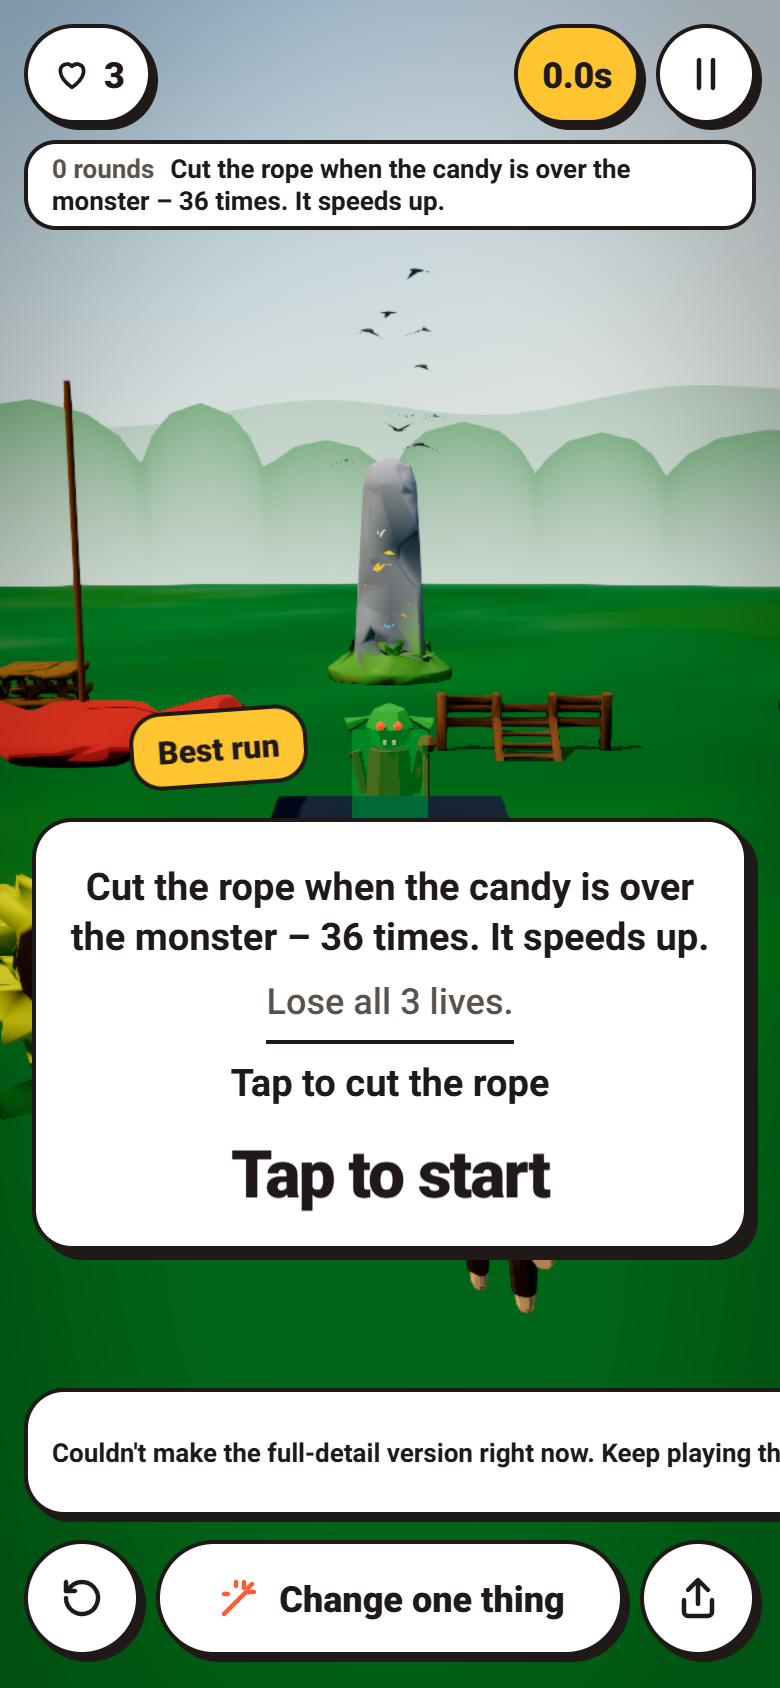
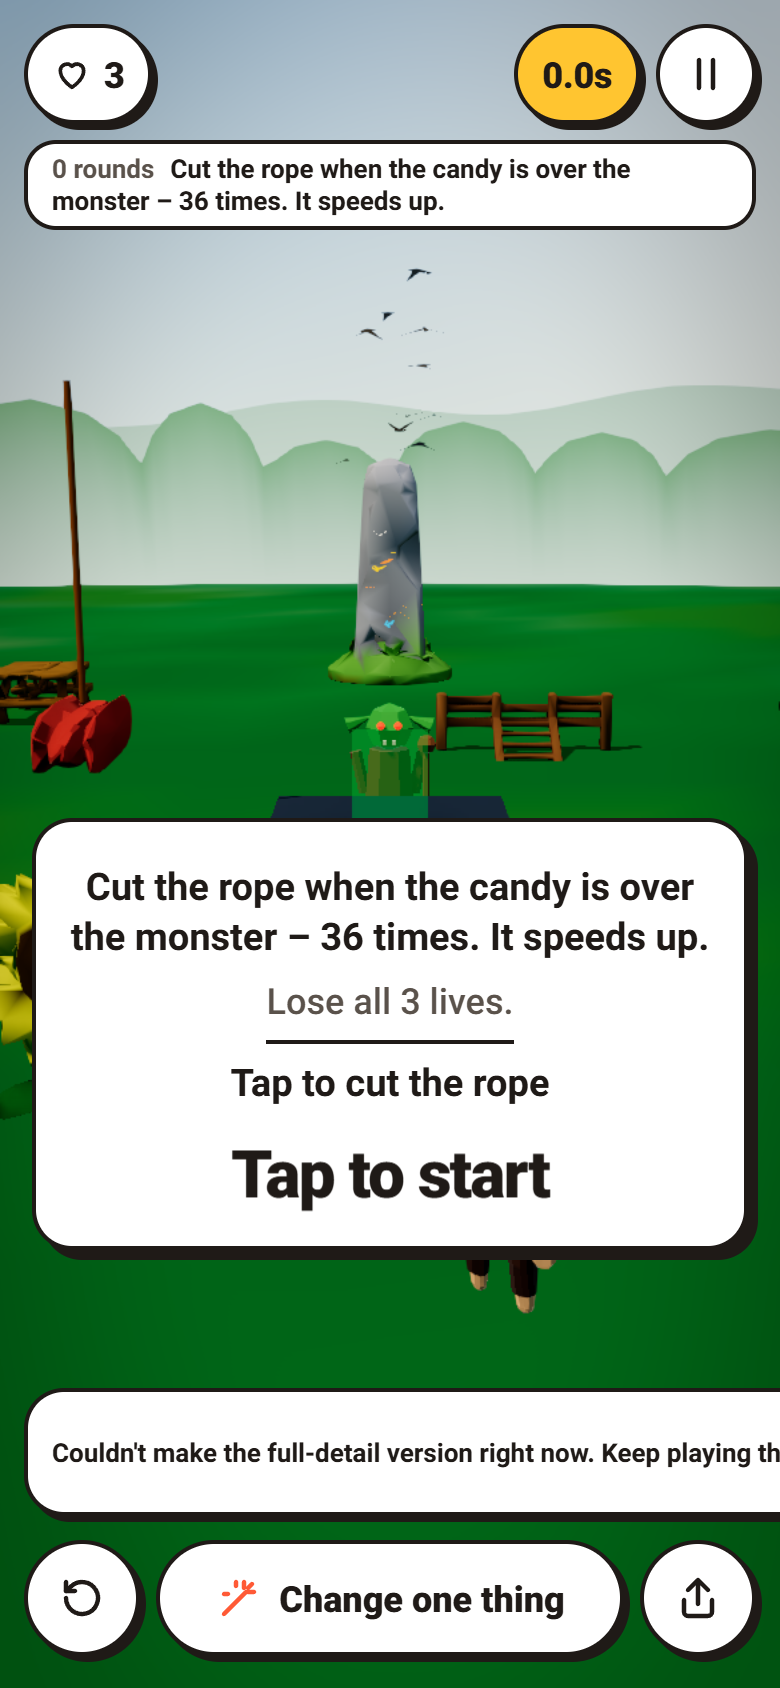
test(play): re-shoot rope after rider fix

Changed region(s): [[0.0, 0.4005, 0.4, 0.4929]]

diff --git a/evals/play/p71/golf/README.md b/evals/play/p71/golf/README.md
@@ -1,6 +1,6 @@
 # P71C T5 – oracle v prohlížeči (golfová kamera, scény, karty)
 
-5. 11. 2026, commit `a64b9f24` (build `next build` 19:01), `next start` na portu 3012, Chromium přes ANGLE/D3D11 s `--disable-features=OpenXR`. AI verze lokálně není („Couldn't make the full-detail version“), testovaná je rychlá verze.
+5. 11. 2026, commit `a64b9f24` (build `next build` 19:01; timing přefocený na `3717ea34`), `next start` na portu 3012, Chromium přes ANGLE/D3D11 s `--disable-features=OpenXR`. AI verze lokálně není („Couldn't make the full-detail version“), testovaná je rychlá verze.
 
 - Golf: `e2e/play-minigolf.spec.ts`, test `minigolf camera: …` (beze změny), projekty `chromium` (1280×720) a `pixel7-touch` (412×839, dotyk). Jeden odpal na hru: ručně vyrobená hra testu (`fixture`) a tři věty z QA. Záznam kamery po snímcích je v `golf-<hra>-camera-<desk|phone>.json`, snímky jsou `golf-<hra>-<start|before|during|after>-<desk|phone>.png` (test je ukládá jako `<hra>-<projekt>-<start|aim|during|after>.png`, tady jsou přejmenované).
 - Timing, rhythm, drawsave a karty: `scene-oracle.mjs` → `scene-oracle.json` a PNG. Hry vyrábí `make-games.mjs` (`games.json`) na běžícím serveru. Rámečky postav jsou obrysy skutečných vrcholů sítí (žába `toyHero`, lano `rope`, příšera `goal`) promítnuté živou kamerou, v CSS px.
@@ -22,8 +22,8 @@ U všech 8 golfových řádků platí: míření 0,000 m za snímek i celkem, ho
 | golf kamera | `play mini golf` | phone 412×839 | pass | 0,018 m / 0,11°; vrchol 0,99 m, špička 1,17; 1 obrat o 1 cm v okamžiku zastavení (sledování dopředu → stoupání do klidu), houpnutí 0; 23,5 → 3,1 → 9,6 m; 1,38 s |
 | golf kamera | `a golf ball rolls into the hole` | phone 412×839 | pass | 0,014 m / 0,08°; vrchol 1,06 m, špička 1,12, 0 obratů; 24,7 → 2,1 → 14,4 m; 1,42 s |
 | golf kamera | fixture testu | phone 412×839 | pass | 0,012 m / 0,08°; vrchol 1,04 m, špička 1,72 (0,25 / 0,45 / 0,26 m, 8. snímek sestupu), 0 obratů; 22,1 → 2,6 → 14,6 m; 1,38 s |
-| timing: lano a příšera | `cut the rope at the right moment to feed the monster` | phone 390×844 | pass | lano 12×161 px (x 32–43, y 190–351), příšera 46×66 px (x 172–218, y 351–418) – obojí v okně; spodních 9 px příšery pod start kartou (karta od y 409); bonbon na laně při startu přečuhuje 50 px za levý okraj (x −50…123); `handPlay` won 30,0 s, `idleRun` lost 15,1 s |
-| timing: lano a příšera | totéž | desk 1280×800 | pass | lano 24×256 px (x 384–408, y 51–308), příšera 64×92 px (x 608–672, y 322–414), spodních 32 px pod start kartou (karta od y 382); bonbon celý v okně (x 243–536); won 30,0 s, lost 15,1 s |
+| timing: lano, bonbon, příšera | `cut the rope at the right moment to feed the monster` | phone 390×844 | pass | po opravě `3717ea34`: bonbon 51×40 px (x 15–66, y 347–387) visí na konci lana a je celý v okně; lano 12×161 px (x 32–43, y 190–351); příšera 46×66 px (x 172–218, y 351–418), spodních 9 px pod start kartou (karta od y 409); `handPlay` won 30,0 s, `idleRun` lost 15,1 s |
+| timing: lano, bonbon, příšera | totéž | desk 1280×800 | pass | po opravě `3717ea34`: bonbon 107×51 px (x 346–453, y 308–359) na konci lana, celý v okně; lano 24×256 px (x 384–408, y 51–308); příšera 64×92 px (x 608–672, y 322–414), spodních 32 px pod start kartou (karta od y 382); won 30,0 s, lost 15,1 s |
 | timing | `tap at the right time to stop the moving platform` | desk 1280×800 | pass | won 30,0 s, lost 15,1 s |
 | timing | `stack pancakes as high as you can` | desk 1280×800 | pass | won 30,0 s, lost 15,1 s |
 | rhythm: žába v záběru | `A drummer frog plays on lily pads and the pond lights up with the beat` | phone 390×844 | pass, s výhradou | při hraní celá v okně: 18 vzorků za 3,5 s hry, nejmenší okraj vpravo 7 px (1 vzorek pod cílem 8 px, ostatní 8–12 px); snímek `input` x 289–378, y 455–533; 4 vzorky vynechané, žába po minutí bliká. Při startu x 289–382, y 401–482, ale skoro celá pod start kartou (karta x 16–374, y 378–594). Po `handPlay` je kamera jinde a žába je 25 px za pravým okrajem, kryje ji ale karta výsledku. Po „Play again“ x 278–360, opět pod start kartou. `handPlay` won 35,8 s, `idleRun` lost 7,1 s |
@@ -35,7 +35,7 @@ U všech 8 golfových řádků platí: míření 0,000 m za snímek i celkem, ho
 
 - Golf: kamera se po odpalu pořád spouští z přehledu (22–79 m) na 2–3 m za míček a po zastavení zase stoupá (5–25 m). Teď je to jeden plynulý přechod tam a jeden zpět, bez houpání a bez skoku. (Úsudek: vzorec „spuštění a návrat“, který popsala QA, zůstal, jen je hladký.)
 - Golf na telefonu: při startu banner „Couldn't make the full-detail version…“ překrývá počítadlo „0 strokes · par 4“ (`golf-golf-start-phone.png`).
-- Timing rope: bonbon je dlouhý červený kvádr přes šířku lišty (~290×50 px na desktopu), ne tvar bonbonu.
+- Timing rope před opravou `3717ea34`: bonbon byl pětkrát širší, dlouhý červený kvádr (~290×50 px na desktopu, na telefonu 50 px za levým okrajem). Snímky a řádky timing jsou přefocené po opravě, stejně jako `timing-platform-*` a `timing-pancakes-*`.
 - Rhythm na telefonu: velký šedý pás přes spodní třetinu pruhů (`rhythm-phone-input.png`, y ≈ 678–750 CSS px).
 - Golfový test dělá snímek „during“ 150 ms po puštění a ten zdrží vykreslení až o 200 ms. Pohyby jsou proto přepočtené na snímek 60 Hz; syrové skoky 5–9 m za snímek v JSON jsou tyhle mezery.
 
